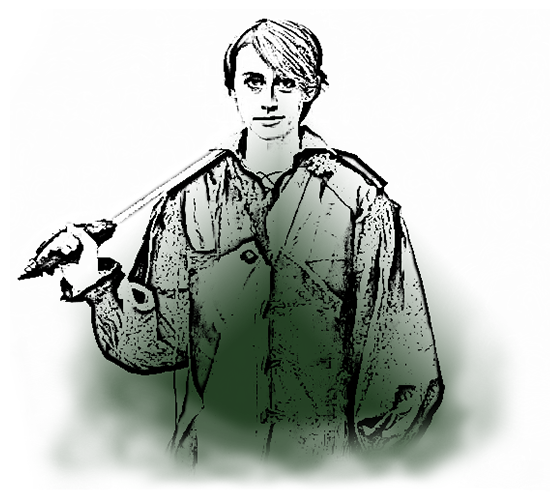
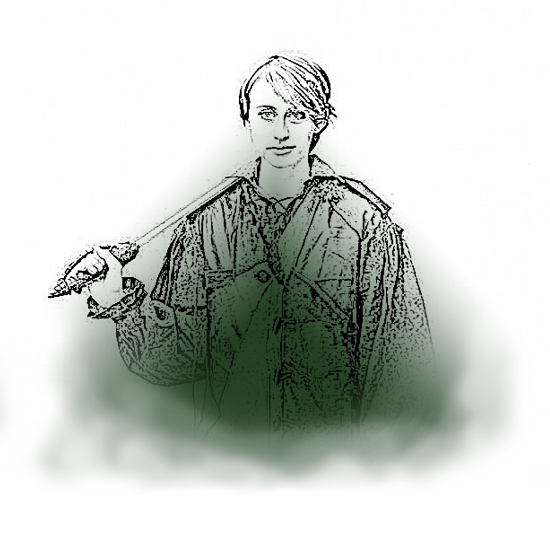
7

diff --git a/index.html b/index.html
@@ -113,7 +113,7 @@
 				<div class="col-md-12">
 					<ul class="ul-char">
 						<li class="clearfix">
-							<img class="float-right" src="" alt="">
+							<img class="float-right" src="img/charc/hook.png" alt="">
 							<div class="char-info float-left">
 								<h3>James Miller</h3>
 								<p>Lorem ipsum dolor sit amet, reque putent pro ad, consequat constituam an his, agam sadipscing disputationi eu vel. Ex mei novum scripta. Meliore pertinacia ne his, ex porro feugiat mei, ex ferri possim voluptua mea. Quo id probo populo voluptaria. Ne vel diam gubergren, ut debitis omittam pro. </p>
